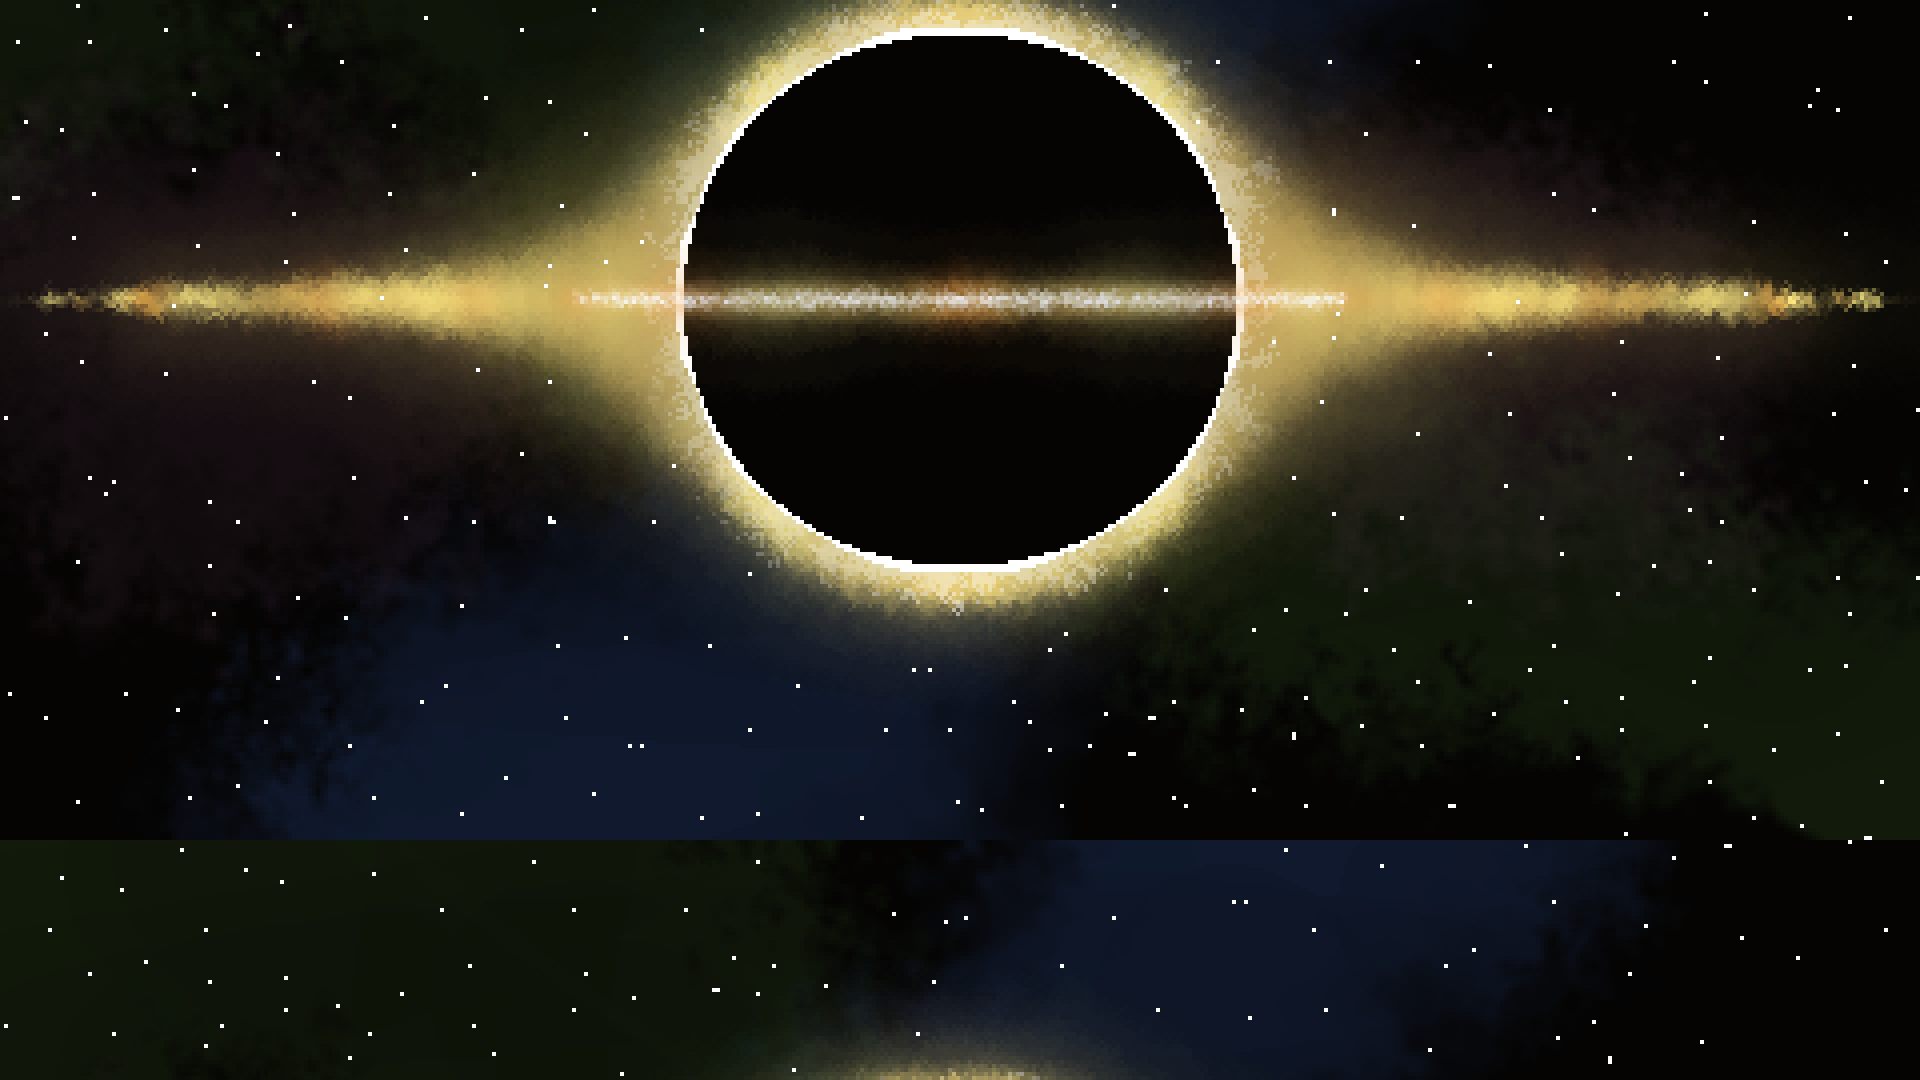
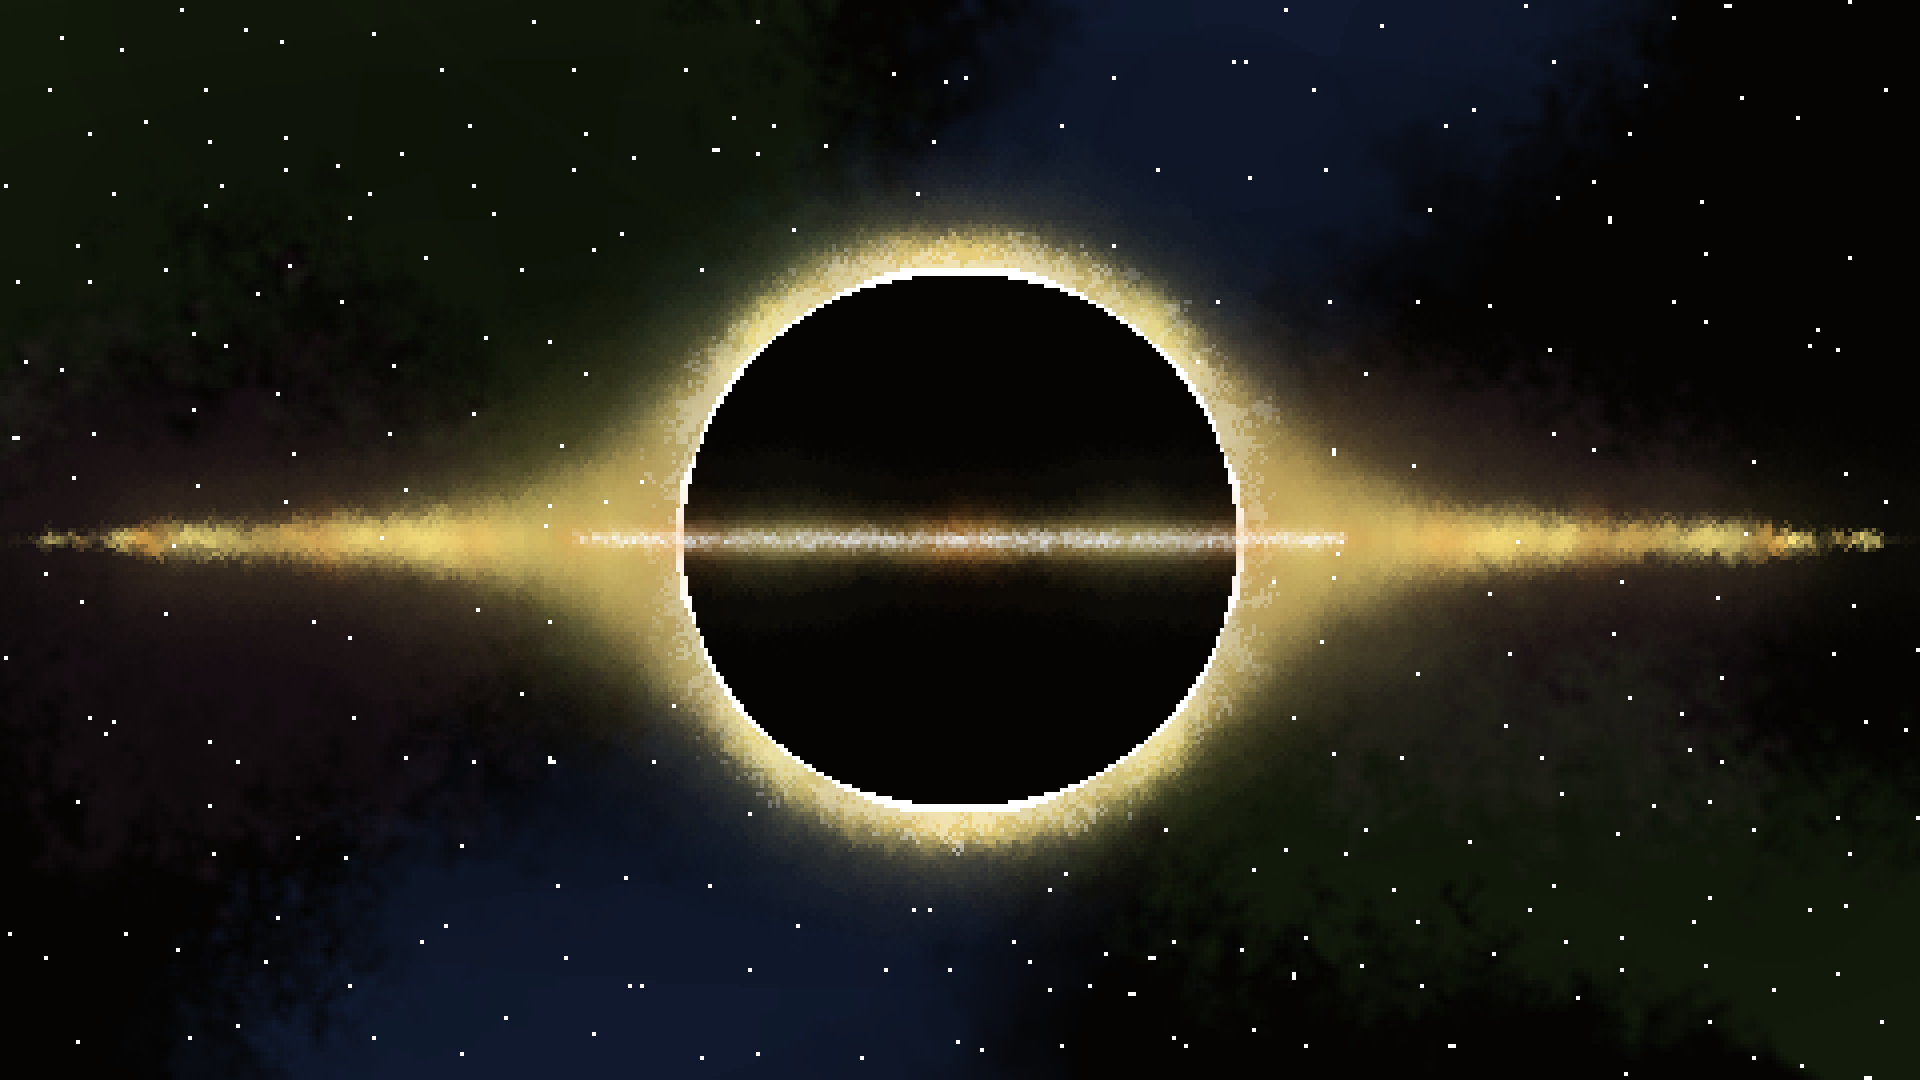
Colour fix, sprite updated and bullet despawn fix

diff --git a/BaseRoboCatUDP-master/BaseRoboCatUDP-master/GD4RoboCatSFML-master/RoboCatSFML/RoboMath.hpp b/BaseRoboCatUDP-master/BaseRoboCatUDP-master/GD4RoboCatSFML-master/RoboCatSFML/RoboMath.hpp
@@ -192,14 +192,34 @@ namespace RoboMath
 
 namespace Colors
 {
-	static const Vector3 Black(0.0f, 0.0f, 0.0f);
-	static const Vector3 White(255.0f, 255.0f, 255.0f);
-	static const Vector3 Red(255.0f, 0.0f, 0.0f);
-	static const Vector3 Green(0.0f, 255.0f, 0.0f);
-	static const Vector3 Blue(0.0f, 0.0f, 255.0f);
-	static const Vector3 LightYellow(255.0f, 255.0f, 224.4f);
-	static const Vector3 LightBlue(173.4f, 216.75f, 229.5f);
-	static const Vector3 LightPink(255.0f, 181.05f, 193.8f);
-	static const Vector3 LightGreen(142.8f, 237.15f, 142.8f);
+	// Text colours
+	static const Vector3 TBlack(0.0f, 0.0f, 0.0f);
+	static const Vector3 TWhite(255.0f, 255.0f, 255.0f);
+	static const Vector3 TRed(255.0f, 0.0f, 0.0f);
+	static const Vector3 TGreen(0.0f, 255.0f, 0.0f);
+	static const Vector3 TBlue(0.0f, 0.0f, 255.0f);
+
+	// Player colours
+	static const Vector3 NeonRed(255.0f, 0.0f, 0.0f);
+	static const Vector3 NeonOrange(255.0f, 102.0f, 0.0f);
+	static const Vector3 NeonYellow(255.0f, 255.0f, 0.0f);
+	static const Vector3 NeonGreen(57.0f, 255.0f, 20.0f);
+	static const Vector3 NeonTurquoise(0.0f, 255.0f, 255.0f);
+	static const Vector3 NeonBlue(0.0f, 153.0f, 255.0f);
+	static const Vector3 NeonLavender(221.0f, 160.0f, 255.0f);
+	static const Vector3 NeonViolet(148.0f, 0.0f, 211.0f);
+	static const Vector3 NeonPink(255.0f, 20.0f, 147.0f);
+	static const Vector3 NeonWhite(255.0f, 255.0f, 255.0f);
+
+	static const Vector3 PastelRed(255.0f, 179.0f, 186.0f);
+	static const Vector3 PastelOrange(255.0f, 223.0f, 186.0f);
+	static const Vector3 PastelYellow(255.0f, 255.0f, 186.0f);
+	static const Vector3 PastelGreen(186.0f, 255.0f, 201.0f);
+	static const Vector3 PastelMint(204.0f, 255.0f, 229.0f);
+	static const Vector3 PastelBlue(186.0f, 223.0f, 255.0f);
+	static const Vector3 PastelIndigo(204.0f, 186.0f, 255.0f);
+	static const Vector3 PastelViolet(230.0f, 186.0f, 255.0f);
+	static const Vector3 PastelPink(255.0f, 186.0f, 250.0f);
+	static const Vector3 PastelBrown(210.0f, 180.0f, 140.0f);
 }
 

diff --git a/BaseRoboCatUDP-master/BaseRoboCatUDP-master/GD4RoboCatSFML-master/RoboCatSFML/ScoreBoardManager.cpp b/BaseRoboCatUDP-master/BaseRoboCatUDP-master/GD4RoboCatSFML-master/RoboCatSFML/ScoreBoardManager.cpp
@@ -10,10 +10,30 @@ void ScoreBoardManager::StaticInit()
 
 ScoreBoardManager::ScoreBoardManager()
 {
-	mDefaultColors.push_back(Colors::LightYellow);
-	mDefaultColors.push_back(Colors::LightBlue);
-	mDefaultColors.push_back(Colors::LightPink);
-	mDefaultColors.push_back(Colors::LightGreen);
+	mDefaultColors.push_back(Colors::PastelBrown);
+
+	mDefaultColors.push_back(Colors::NeonRed);
+	mDefaultColors.push_back(Colors::NeonOrange);
+	mDefaultColors.push_back(Colors::NeonYellow);
+	mDefaultColors.push_back(Colors::NeonGreen);
+	mDefaultColors.push_back(Colors::NeonTurquoise);
+	mDefaultColors.push_back(Colors::NeonBlue);
+	mDefaultColors.push_back(Colors::NeonLavender);
+	mDefaultColors.push_back(Colors::NeonViolet);
+	mDefaultColors.push_back(Colors::NeonPink);
+	mDefaultColors.push_back(Colors::NeonWhite);
+
+	mDefaultColors.push_back(Colors::PastelRed);
+	mDefaultColors.push_back(Colors::PastelOrange);
+	mDefaultColors.push_back(Colors::PastelYellow);
+	mDefaultColors.push_back(Colors::PastelGreen);
+	mDefaultColors.push_back(Colors::PastelMint);
+	mDefaultColors.push_back(Colors::PastelBlue);
+	mDefaultColors.push_back(Colors::PastelIndigo);
+	mDefaultColors.push_back(Colors::PastelViolet);
+	mDefaultColors.push_back(Colors::PastelPink);
+	
+
 }
 
 ScoreBoardManager::Entry::Entry(uint32_t inPlayerId, const string& inPlayerName, const Vector3& inColor) :

diff --git a/BaseRoboCatUDP-master/BaseRoboCatUDP-master/GD4RoboCatSFML-master/RoboCatSFMLClient/HUD.cpp b/BaseRoboCatUDP-master/BaseRoboCatUDP-master/GD4RoboCatSFML-master/RoboCatSFMLClient/HUD.cpp
@@ -32,7 +32,7 @@ void HUD::RenderHealth()
 	if (mHealth > 0)
 	{
 		string healthString = StringUtils::Sprintf("Health %d", mHealth);
-		RenderText(healthString, mHealthOffset, Colors::Red);
+		RenderText(healthString, mHealthOffset, Colors::TRed);
 	}
 }
 
@@ -41,7 +41,7 @@ void HUD::RenderBandWidth()
 	string bandwidth = StringUtils::Sprintf("In %d  Bps, Out %d Bps",
 		static_cast<int>(NetworkManagerClient::sInstance->GetBytesReceivedPerSecond().GetValue()),
 		static_cast<int>(NetworkManagerClient::sInstance->GetBytesSentPerSecond().GetValue()));
-	RenderText(bandwidth, mBandwidthOrigin, Colors::White);
+	RenderText(bandwidth, mBandwidthOrigin, Colors::TWhite);
 }
 
 void HUD::RenderRoundTripTime()
@@ -49,7 +49,7 @@ void HUD::RenderRoundTripTime()
 	float rttMS = NetworkManagerClient::sInstance->GetAvgRoundTripTime().GetValue() * 1000.f;
 
 	string roundTripTime = StringUtils::Sprintf("RTT %d ms", (int)rttMS);
-	RenderText(roundTripTime, mRoundTripTimeOrigin, Colors::White);
+	RenderText(roundTripTime, mRoundTripTimeOrigin, Colors::TWhite);
 }
 
 void HUD::RenderScoreBoard()

diff --git a/BaseRoboCatUDP-master/BaseRoboCatUDP-master/GD4RoboCatSFML-master/RoboCatSFML/RoboCat.cpp b/BaseRoboCatUDP-master/BaseRoboCatUDP-master/GD4RoboCatSFML-master/RoboCatSFML/RoboCat.cpp
@@ -1,7 +1,7 @@
 #include "RoboCatPCH.hpp"
 
-const float WORLD_HEIGHT = 720.f;
-const float WORLD_WIDTH = 1280.f;
+const float WORLD_HEIGHT = 1080.f;
+const float WORLD_WIDTH = 1920.f;
 
 RoboCat::RoboCat() :
 	GameObject(),
@@ -15,7 +15,7 @@ RoboCat::RoboCat() :
 	mIsShooting(false),
 	mHealth(10)
 {
-	SetCollisionRadius(60.f);
+	SetCollisionRadius(15.f);
 }
 
 void RoboCat::ProcessInput(float inDeltaTime, const InputState& inInputState)

diff --git a/BaseRoboCatUDP-master/BaseRoboCatUDP-master/GD4RoboCatSFML-master/RoboCatSFMLServer/YarnServer.cpp b/BaseRoboCatUDP-master/BaseRoboCatUDP-master/GD4RoboCatSFML-master/RoboCatSFMLServer/YarnServer.cpp
@@ -17,10 +17,19 @@ void YarnServer::Update()
 {
 	Yarn::Update();
 
-	if (Timing::sInstance.GetFrameStartTime() > mTimeToDie)
+	const Vector3& pos = GetLocation();
+	if (pos.mX < 0.0f || pos.mX > 1920.0f || pos.mY < 0.0f || pos.mY > 1080.0f) 
+	{
+		SetDoesWantToDie(true); 
+		//write to console say bullet death
+
+	}
+
+	//
+	/*if (Timing::sInstance.GetFrameStartTime() > mTimeToDie)
 	{
 		SetDoesWantToDie(true);
-	}
+	}*/
 
 }
 

diff --git a/BaseRoboCatUDP-master/BaseRoboCatUDP-master/GD4RoboCatSFML-master/RoboCatSFMLClient/TextureManager.cpp b/BaseRoboCatUDP-master/BaseRoboCatUDP-master/GD4RoboCatSFML-master/RoboCatSFMLClient/TextureManager.cpp
@@ -9,9 +9,9 @@ void TextureManager::StaticInit()
 
 TextureManager::TextureManager()
 {
-	CacheTexture("cat", "../Assets/cat.png");
+	CacheTexture("ship", "../Assets/Ship.png");
 	CacheTexture("mouse", "../Assets/mouse.png");
-	CacheTexture("yarn", "../Assets/yarn.png");
+	CacheTexture("bullet", "../Assets/bullet.png");
 	CacheTexture("BG", "../Assets/Space2.png");
 }
 

diff --git a/BaseRoboCatUDP-master/BaseRoboCatUDP-master/GD4RoboCatSFML-master/RoboCatSFMLClient/RoboCatClient.cpp b/BaseRoboCatUDP-master/BaseRoboCatUDP-master/GD4RoboCatSFML-master/RoboCatSFMLClient/RoboCatClient.cpp
@@ -5,7 +5,7 @@ RoboCatClient::RoboCatClient() :
 	mTimeVelocityBecameOutOfSync(0.f)
 {
 	mSpriteComponent.reset(new PlayerSpriteComponent(this));
-	mSpriteComponent->SetTexture(TextureManager::sInstance->GetTexture("cat"));
+	mSpriteComponent->SetTexture(TextureManager::sInstance->GetTexture("ship"));
 }
 
 void RoboCatClient::HandleDying()

diff --git a/BaseRoboCatUDP-master/BaseRoboCatUDP-master/GD4RoboCatSFML-master/RoboCatSFMLClient/WindowManager.cpp b/BaseRoboCatUDP-master/BaseRoboCatUDP-master/GD4RoboCatSFML-master/RoboCatSFMLClient/WindowManager.cpp
@@ -4,7 +4,7 @@ std::unique_ptr<sf::RenderWindow>	WindowManager::sInstance;
 
 bool WindowManager::StaticInit()
 {
-	sInstance.reset(new sf::RenderWindow(sf::VideoMode(1280, 720), "RoboCatSFML!"));
+	sInstance.reset(new sf::RenderWindow(sf::VideoMode(1920, 1080), "RoboCatSFML!"));
 	return true;
 }
 

diff --git a/BaseRoboCatUDP-master/BaseRoboCatUDP-master/GD4RoboCatSFML-master/RoboCatSFMLClient/RenderManager.cpp b/BaseRoboCatUDP-master/BaseRoboCatUDP-master/GD4RoboCatSFML-master/RoboCatSFMLClient/RenderManager.cpp
@@ -4,7 +4,7 @@ std::unique_ptr< RenderManager >	RenderManager::sInstance;
 
 RenderManager::RenderManager()
 {
-	view.reset(sf::FloatRect(0, 0, 1280, 720));
+	view.reset(sf::FloatRect(0, 0, 1920, 1080));
 	WindowManager::sInstance->setView(view);
 
 	// Set up background sprite

diff --git a/BaseRoboCatUDP-master/BaseRoboCatUDP-master/GD4RoboCatSFML-master/RoboCatSFMLClient/YarnClient.cpp b/BaseRoboCatUDP-master/BaseRoboCatUDP-master/GD4RoboCatSFML-master/RoboCatSFMLClient/YarnClient.cpp
@@ -4,7 +4,7 @@
 YarnClient::YarnClient()
 {
 	mSpriteComponent.reset(new SpriteComponent(this));
-	mSpriteComponent->SetTexture(TextureManager::sInstance->GetTexture("yarn"));
+	mSpriteComponent->SetTexture(TextureManager::sInstance->GetTexture("bullet"));
 }
 
 

diff --git a/BaseRoboCatUDP-master/BaseRoboCatUDP-master/GD4RoboCatSFML-master/RoboCatSFML/GameObject.cpp b/BaseRoboCatUDP-master/BaseRoboCatUDP-master/GD4RoboCatSFML-master/RoboCatSFML/GameObject.cpp
@@ -6,7 +6,7 @@ GameObject::GameObject() :
 	mDoesWantToDie(false),
 	mRotation(0.f),
 	mNetworkId(0),
-	mColor(Colors::White),
+	mColor(Colors::TWhite),
 	mScale(1.0f)
 {
 }

diff --git a/BaseRoboCatUDP-master/BaseRoboCatUDP-master/GD4RoboCatSFML-master/RoboCatSFML/Yarn.cpp b/BaseRoboCatUDP-master/BaseRoboCatUDP-master/GD4RoboCatSFML-master/RoboCatSFML/Yarn.cpp
@@ -5,7 +5,7 @@ Yarn::Yarn() :
 	mVelocity(Vector3::Zero),
 	mPlayerId(0)
 {
-	SetScale(GetScale() * 0.25f);
+
 	SetCollisionRadius(20.f);
 }
 
